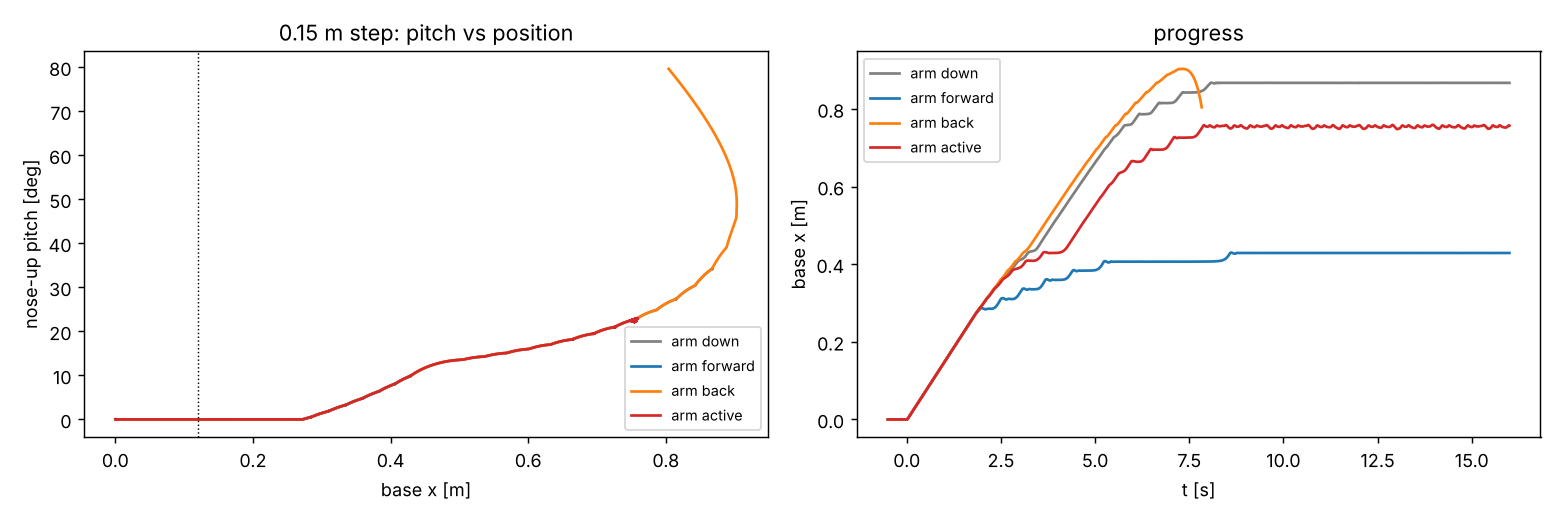
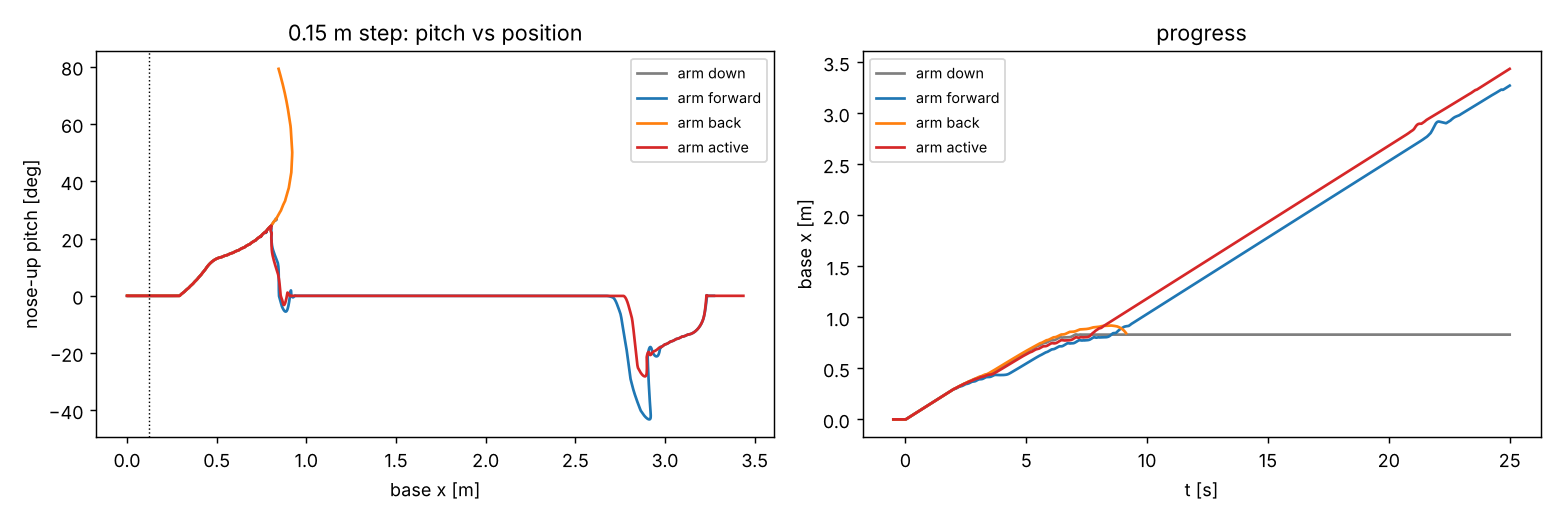
段階8の結果と記録（段差・坂の走行）
Claude-Session: https://claude.ai/code/session_011T5QroY7t6SiNDTQNKVyDW

diff --git a/docs/11_simulation_field_plan.md b/docs/11_simulation_field_plan.md
@@ -354,7 +354,41 @@ PYTHONPATH=src MUJOCO_GL=osmesa python -m ambac.field.evaluate configs/field/rob
   最小ジャークは速度の最大値が平均の 1.9 倍になるため。**軌道の形も校正・最適化の対象になる。**
 - 月では、トルクが小さくても（50 N·m まで）完了時間は変わらない。制限は転倒（フルード則）で決まる。**月面の機体は、地球の機体より小さなモーターで同じ作業ができる**が、速さは重力で決まる。
 
-<!-- STAGE8 -->
+### 段階 8：履帯の台車で段差・坂を走る（試作）
+
+台車の種類に、走行できる履帯（`base.type = "tracked"`）を加えた（`src/ambac/field/assembly.py`、走行の試験メニューは `src/ambac/field/drive.py`）。
+履帯は、駆動する転輪を密に並べ（間隔は半径の 0.4 倍）、すべての転輪の回転を拘束でそろえて 1 本のベルトとして近似した。
+前端は進入角 40° で高さ 0.25 m まで持ち上げた。車体（箱）は接触しない（スカート扱い）。
+機体 `tracked_arm`：Sim06・10 の戦車型と同じ大きさ（接地長 0.8 m）、腕＋荷物 10 kg、総質量 約 170 kg、駆動力の上限 2000 N、周速 0.15 m/s、μ = 0.6。
+
+スクリプト: `sims/field08_steps.py` / 数値まとめ: `data/field08_summary.txt`
+
+![](../figures/field/field08_steps.png)
+
+**段差（25 秒で段の上を走り抜けられたか）**
+
+| 腕の姿勢 | 越えられた最大の段差 | 失敗のしかた |
+|---|---|---|
+| 下ろす | 0.125 m | 0.15〜0.20 m で止まる（シーソー状態）、0.225 m 以上で後ろに転倒 |
+| 前に伸ばす | 0.150 m（0.125 m は止まる） | 0.175 m 以上で止まる |
+| 後ろ上方にたたむ | 0.100 m | 0.15 m 以上で後ろに転倒 |
+| **能動（機首が上がるほど腕を前へ）** | **0.150 m（それ以下はすべて成功）** | 0.175〜0.225 m で止まる、0.25 m で転倒 |
+
+**上り坂（1.5 m 上れたか）**：腕の姿勢によらず、28° まで上れ、31° で滑り落ちる（摩擦の限界 atan 0.6 = 31.0°）。
+
+**分かったこと**
+- **段の角に乗り上げた台車は「シーソー」になる。** 機首が上がると重心が段の角より後ろに移り、前に倒れ込めない。同時に、角に当たるベルトの傾きが摩擦角に近づき、這い上がれない。
+  第 1 段階の Sim10（準静的な見積もり）は、この状態を考えていなかった。
+- **重心の位置で失敗のしかたが変わる。** 腕を後ろにたたむと後ろに転倒し、前に伸ばすと転倒はしないが、段に当たった直後に止まりやすい。
+  **機首の傾きに合わせて腕を前に振る能動的な重心移動**は、0.15 m 以下をすべて越え、後ろへの転倒も減らした。Sim10 の「腕による重心移動が乗り越え能力の差になる」を、動的なシミュレーションで確かめた形になる（地上版 AMBAC）。
+- **坂は摩擦で決まり、腕の姿勢は効かない**（第 1 段階の想定どおり）。
+- 越えられた段差（0.15 m）は、Sim10 の見積もり（0.25 m）より低い。
+
+**モデルの限界（重要）**
+- 転輪の列でベルトを近似しているため、段の角が転輪の間に挟まると、駆動力を 4 倍にしても動かない場合があった（転輪の間隔を変えると結果が変わる）。止まった結果の一部は、この近似による可能性がある。
+- 転輪を軽くしすぎると（0.5 kg）、駆動が振動して接地が途切れ、結果が大きく変わった（3 kg で安定）。
+- 段差の結果は「傾向」として扱い、数値は履帯のより正確なモデル（連結した板のベルトなど）で確かめ直す必要がある。坂の結果（摩擦の限界）は、理論と一致しており信頼できる。
+
 
 ### 次の作業（段階 9 以降の候補）
 1. 履帯のより正確なモデル（ベルトを連結した板で表すなど）で、段差の乗り越えを確かめ直す
